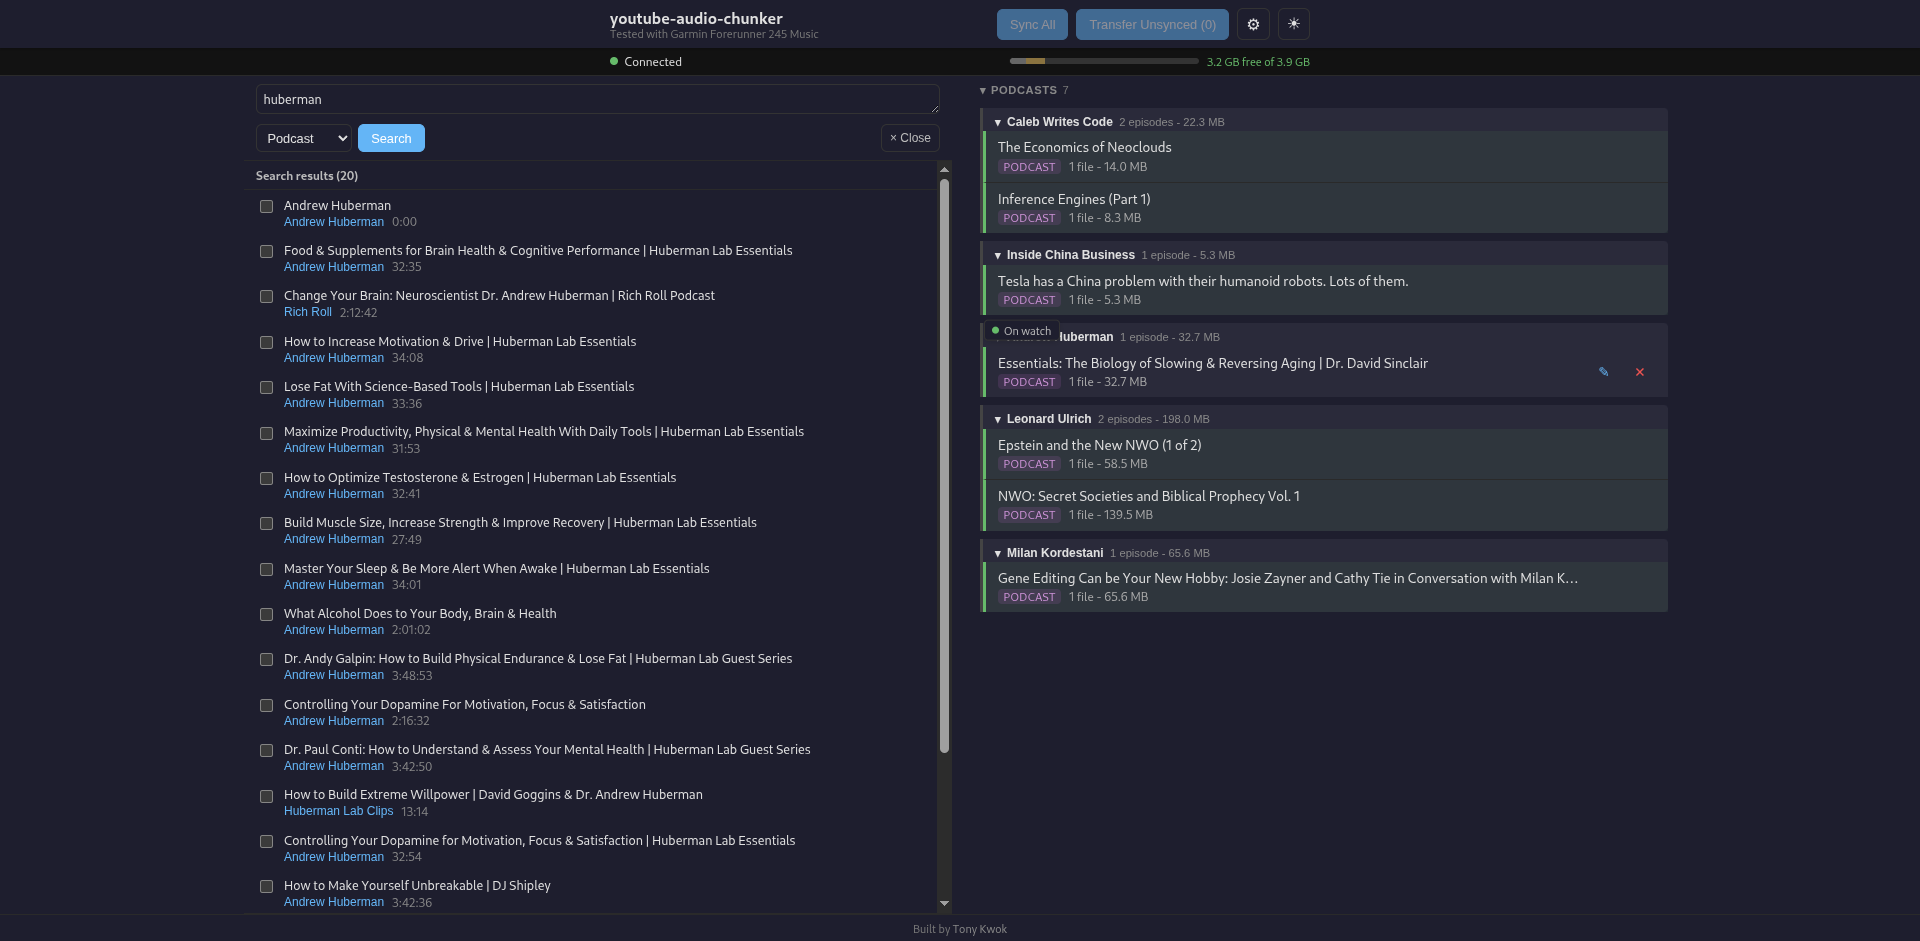
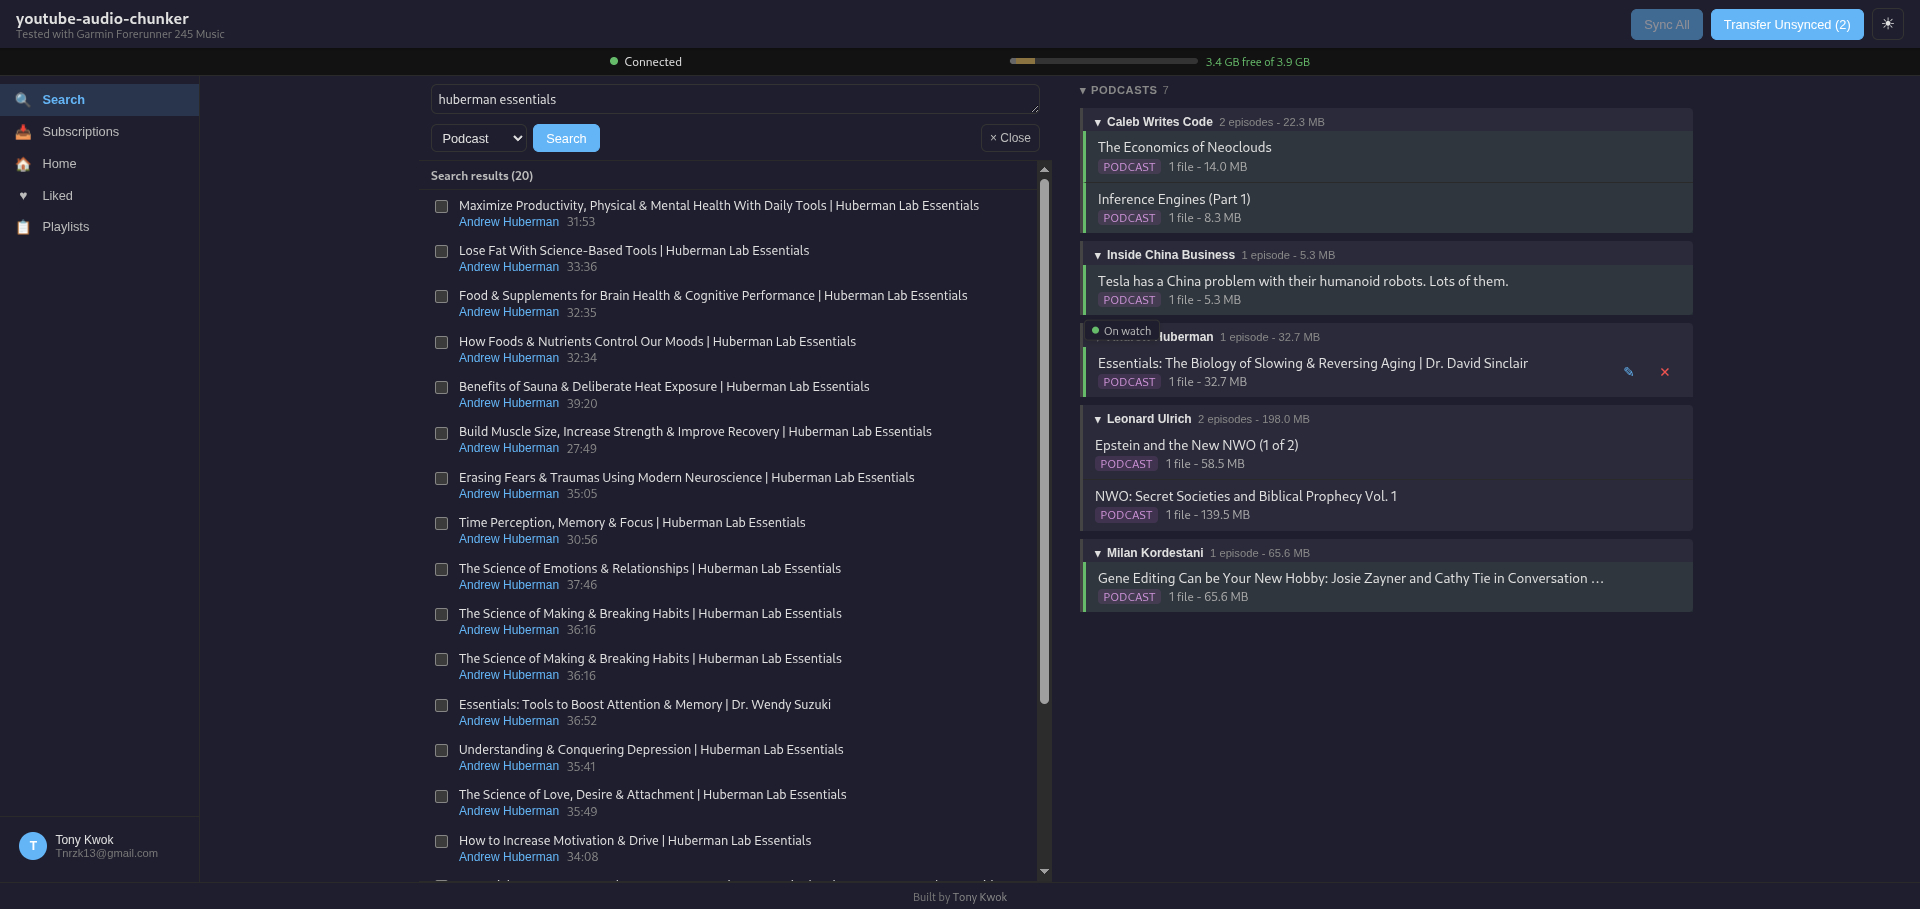
Update README and screenshots for YouTube account feeds
Adds YouTube account feeds to the feature list and updates screenshots
to show the sidebar layout with search results in two-column view.

diff --git a/README.md b/README.md
@@ -10,9 +10,10 @@ Tested on the Garmin Forerunner 245 Music. Should work with any Garmin watch tha
 |-------|------|
 | ![Light mode](docs/screenshot.png) | ![Dark mode](docs/screenshot-dark.png) |
 
-A Tauri desktop app with a unified episode list for managing your audio pipeline:
+A Tauri desktop app with a sidebar-driven layout for managing your audio pipeline:
 
-- **Search and browse** - search YouTube directly from the app or browse a channel's videos; results appear in an on-demand two-column layout alongside your library
+- **YouTube account feeds** - connect your YouTube account via browser cookies to browse subscriptions, home feed, liked videos, and playlists directly from the app
+- **Search and browse** - search YouTube or browse a channel's videos; results appear in a two-column layout alongside your library
 - **Add form** - paste YouTube URLs, pick a content type (music/podcast/audiobook), and queue downloads
 - **Episode list** - all episodes in one view, grouped by content type and show name, with collapsible sections and show groups (state persists across sessions)
 - **Sync status** - color-coded left borders indicate episode state: green = on watch, blue = processing
